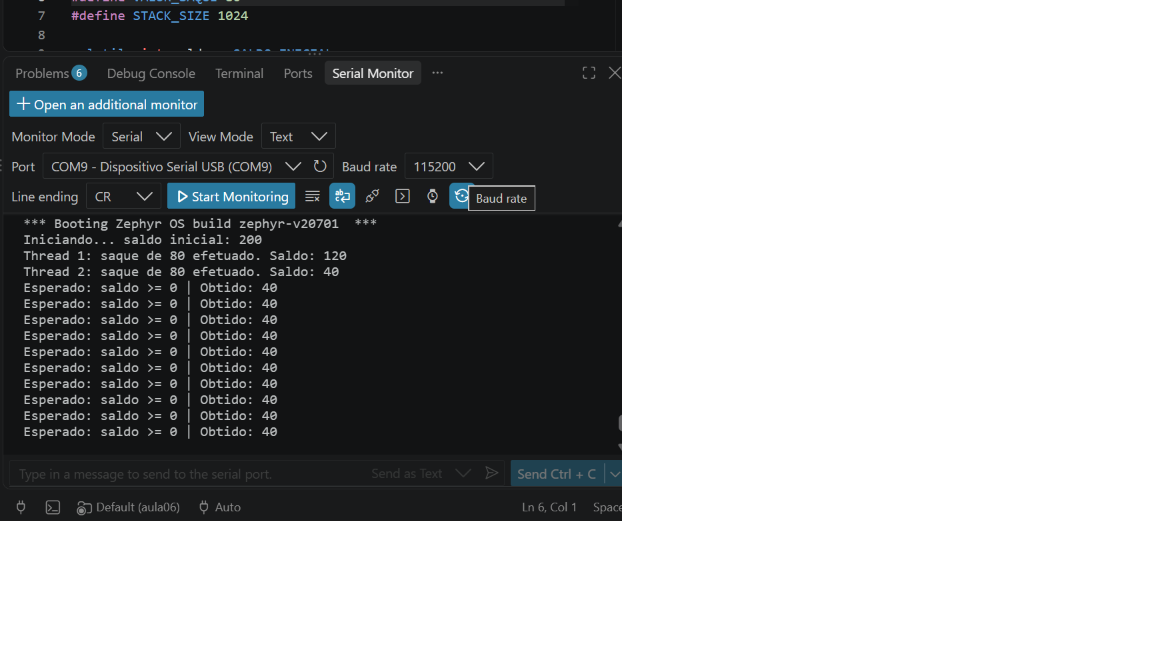
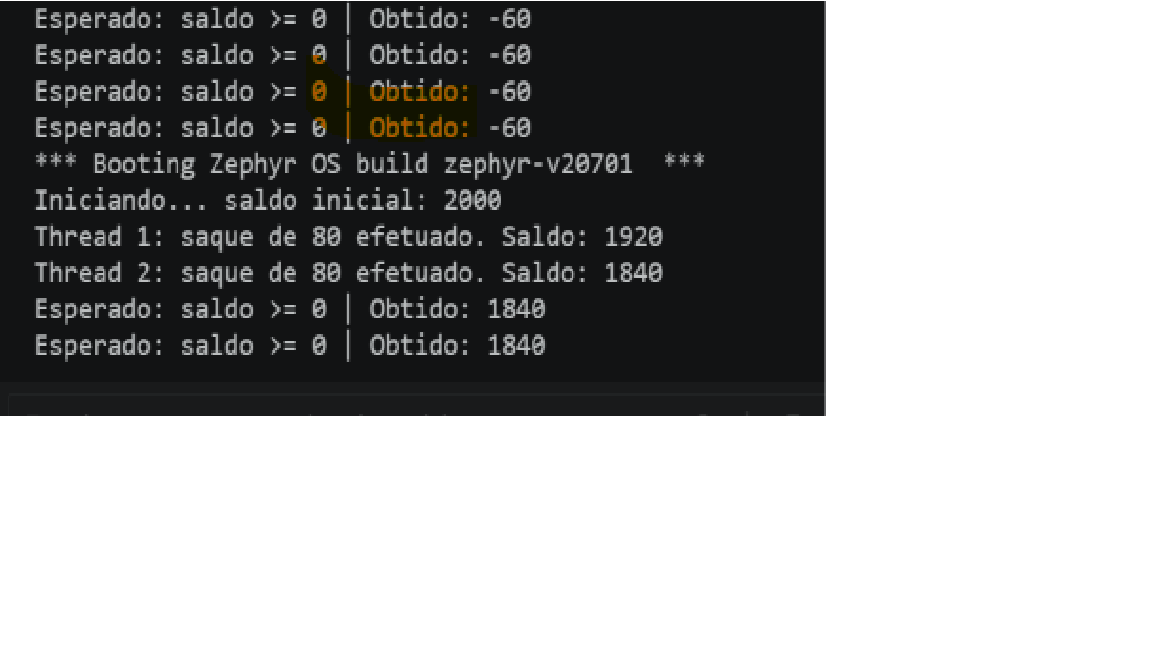
Evidencias cenario 3

diff --git a/codigo_original/ingrid/cenario2_saque.c b/codigo_original/ingrid/cenario2_saque.c
@@ -2,7 +2,7 @@
 #include <sys/printk.h>
 #include <stdint.h>
 
-#define SALDO_INICIAL 100
+#define SALDO_INICIAL 2000
 #define VALOR_SAQUE 80
 #define STACK_SIZE 1024
 
